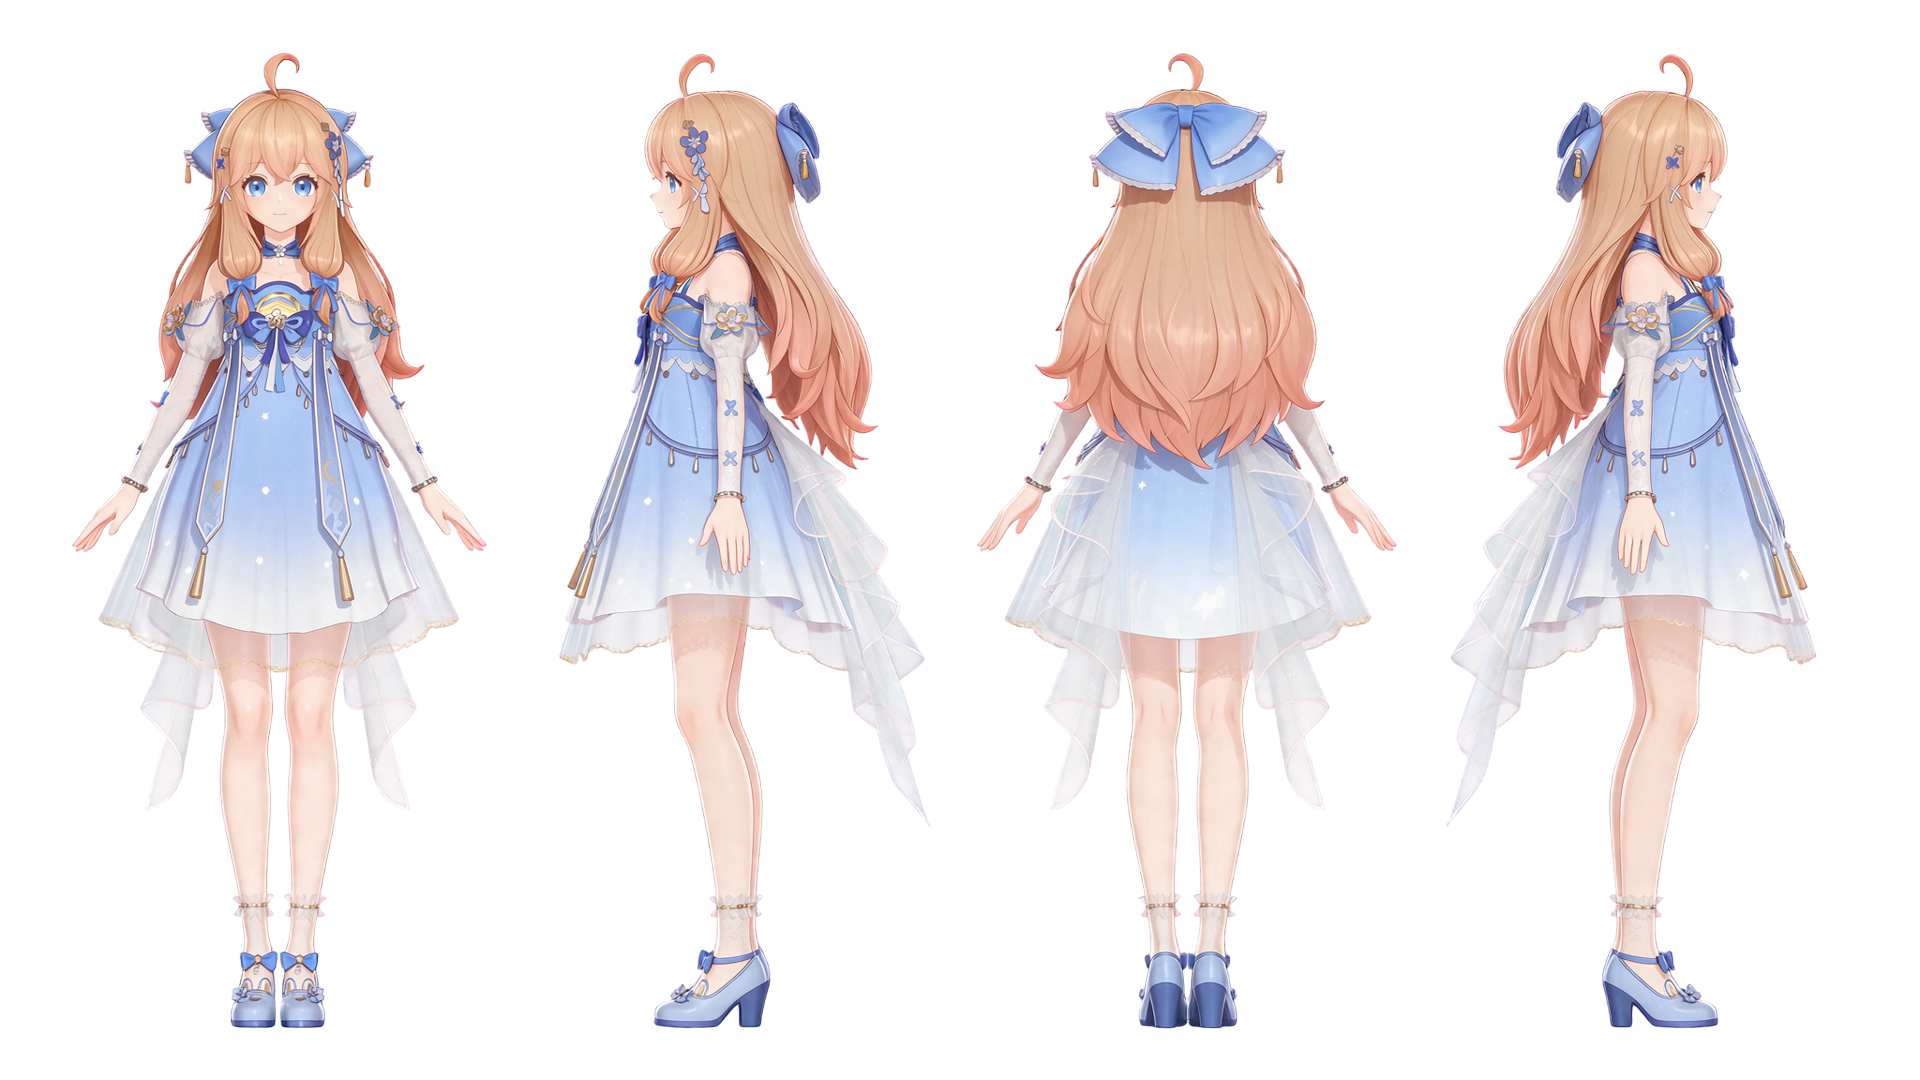
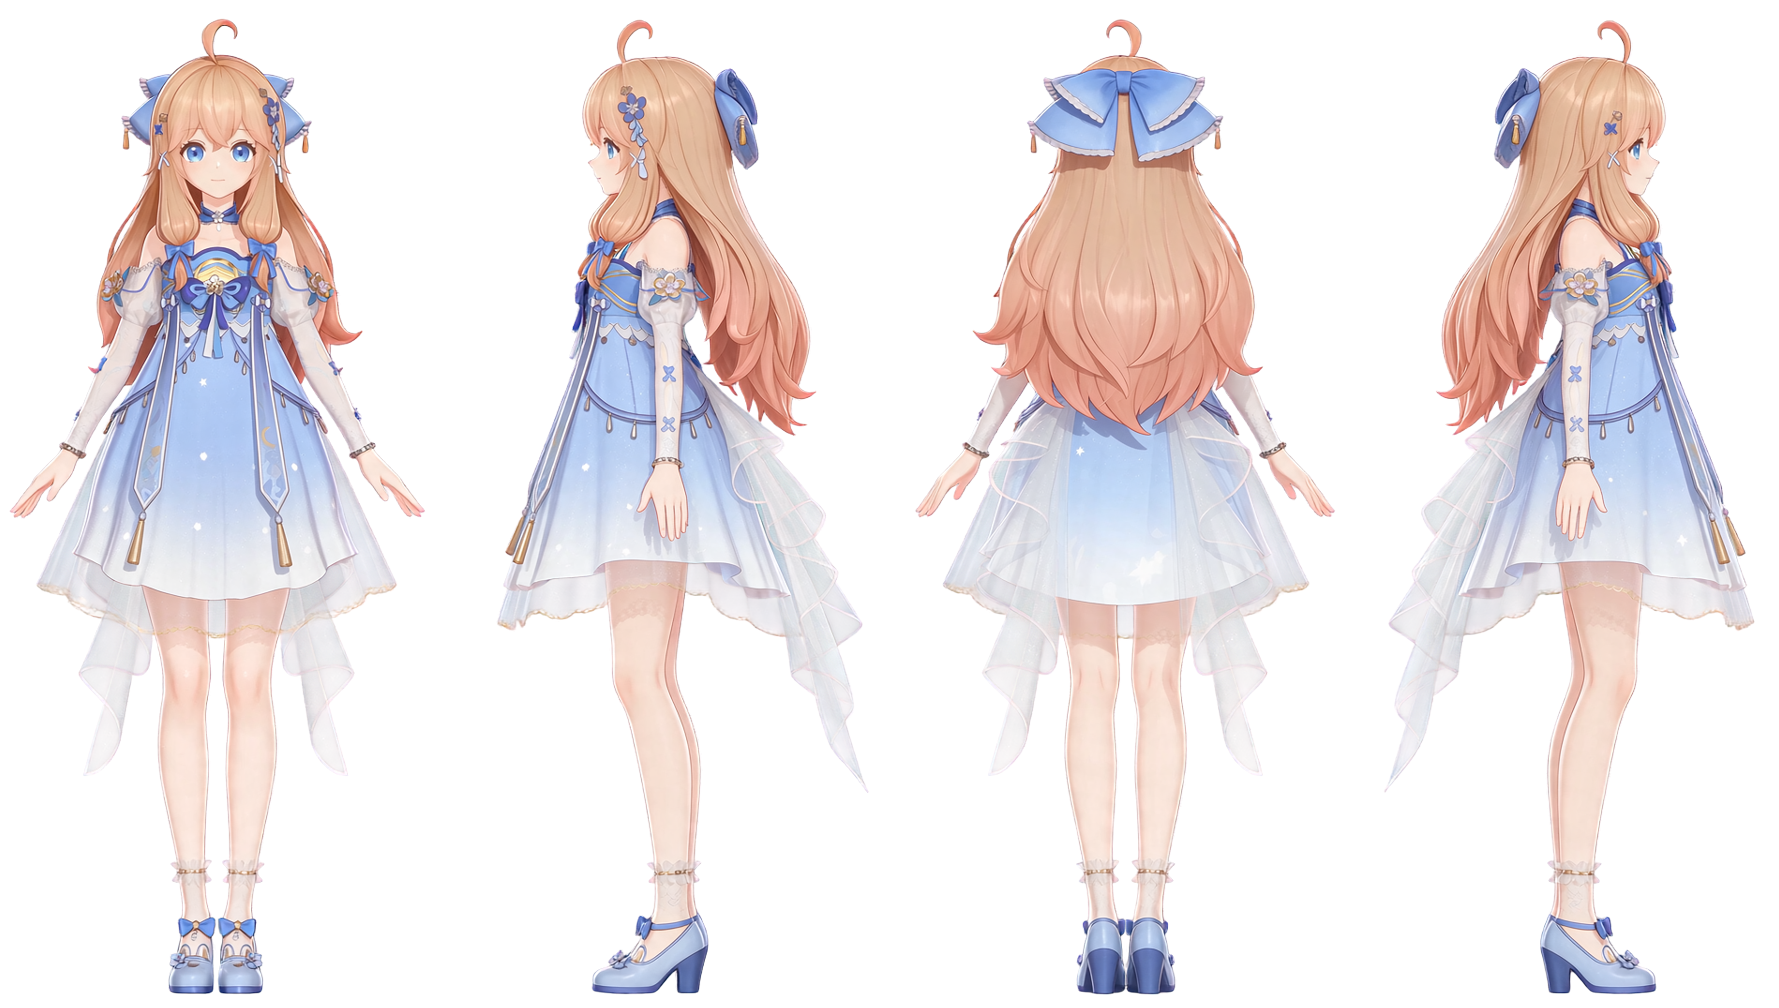
add一个魂和乃琳四周年正视图

Changed region(s): [[0.4947, 0.0, 0.9893, 1.0], [0.0, 0.0308, 0.2473, 0.9841], [0.2782, 0.0, 0.4637, 1.0]]

diff --git a/content/other/index.md b/content/other/index.md
@@ -2,7 +2,7 @@
 title: 其他
 weight: 60
 resources:
-  - src: 奶淇琳.png
+  - src: 一个魂.png
     params:
       cover: true
   - src: 平底锅.png
